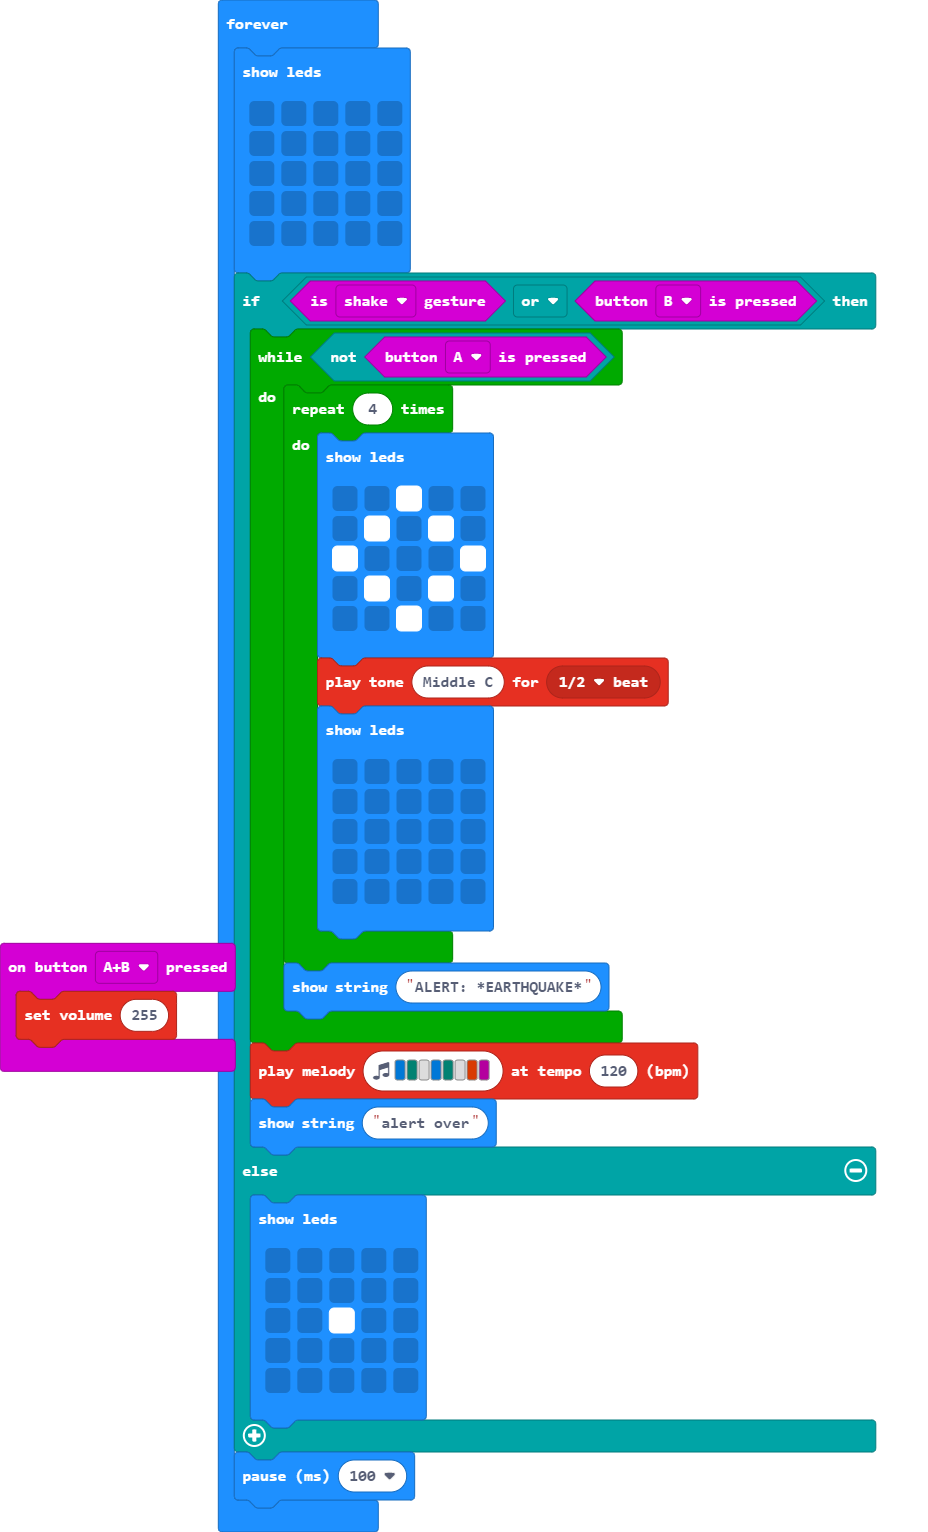
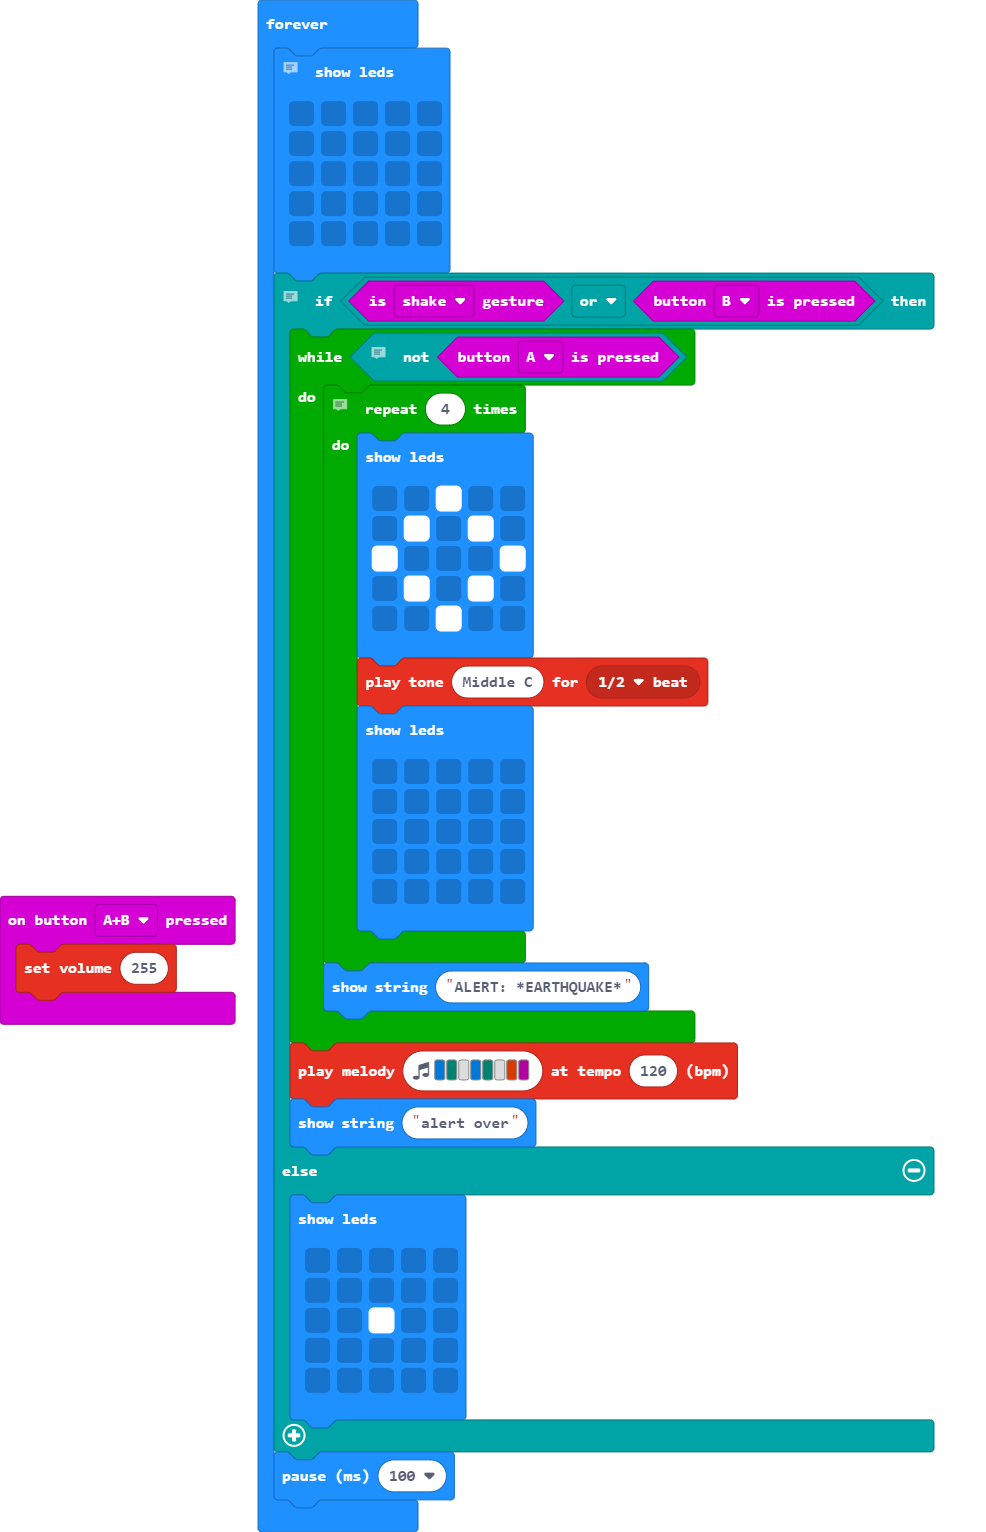
Update main.blocks, main.ts

diff --git a/main.ts b/main.ts
@@ -2,6 +2,7 @@ input.onButtonPressed(Button.AB, function () {
     music.setVolume(255)
 })
 basic.forever(function () {
+    // clears screen
     basic.showLeds(`
         . . . . .
         . . . . .
@@ -9,8 +10,11 @@ basic.forever(function () {
         . . . . .
         . . . . .
         `)
+    // only runs if there is an earthquake or the test button is pressed (button B)
     if (input.isGesture(Gesture.Shake) || input.buttonIsPressed(Button.B)) {
+        // stops repeating when button A is pressed 
         while (!(input.buttonIsPressed(Button.A))) {
+            // displays image and plays alert tone 4 times
             for (let index = 0; index < 4; index++) {
                 basic.showLeds(`
                     . . # . .
